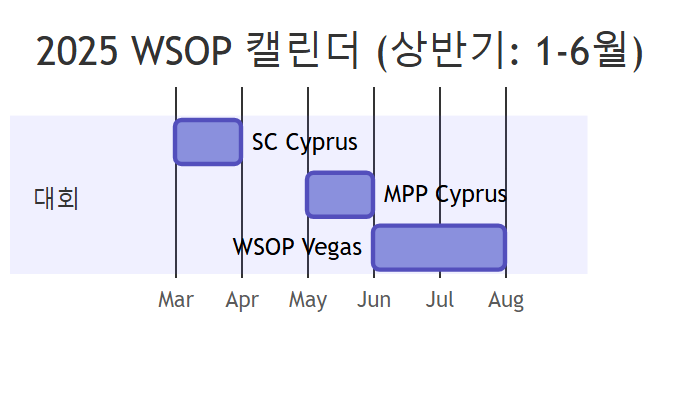
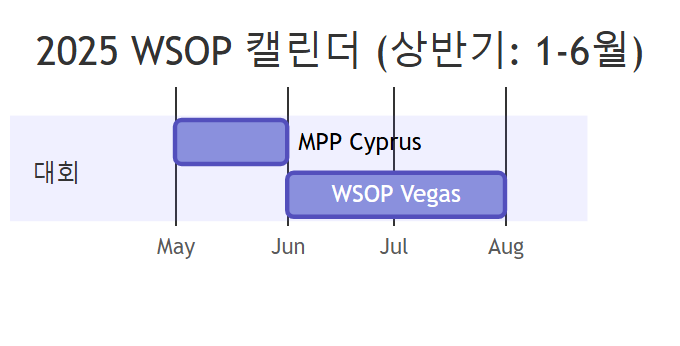
docs(prd): remove Mar SC Cyprus from H1 calendar 📅
상반기 수정:
- 3월 SC Cyprus 삭제
- 5월 MPP Cyprus, 6-7월 WSOP Vegas 유지

🤖 Generated with [Claude Code](https://claude.com/claude-code)

diff --git a/docs/diagrams/04a-calendar-h1.html b/docs/diagrams/04a-calendar-h1.html
@@ -25,7 +25,6 @@ gantt
     axisFormat %b
 
     section 대회
-    SC Cyprus    :2025-03, 1M
     MPP Cyprus   :2025-05, 1M
     WSOP Vegas   :2025-06, 2M
     </div>

diff --git a/tasks/prds/0010-prd-wsoptv/03-content-strategy.md b/tasks/prds/0010-prd-wsoptv/03-content-strategy.md
@@ -223,11 +223,10 @@ WSOP Europe {YEAR} - Bracelet Events
 
 **상반기 (1-6월)**
 
-<img src="https://lh3.googleusercontent.com/d/1fWawC1lJGZKSbCyQ4Mb5vNWXGZtnIO0Y" width="400">
+<img src="https://lh3.googleusercontent.com/d/1a-bEqROjpecp_yQeVjFmkTtrzGjCuQSq" width="400">
 
 | 월 | 대회 | 지역 |
 |----|------|------|
-| **3월** | WSOP Super Circuit Cyprus | Cyprus |
 | **5월** | MPP Cyprus | Cyprus |
 | **6-7월** | WSOP Las Vegas | LV |
 
